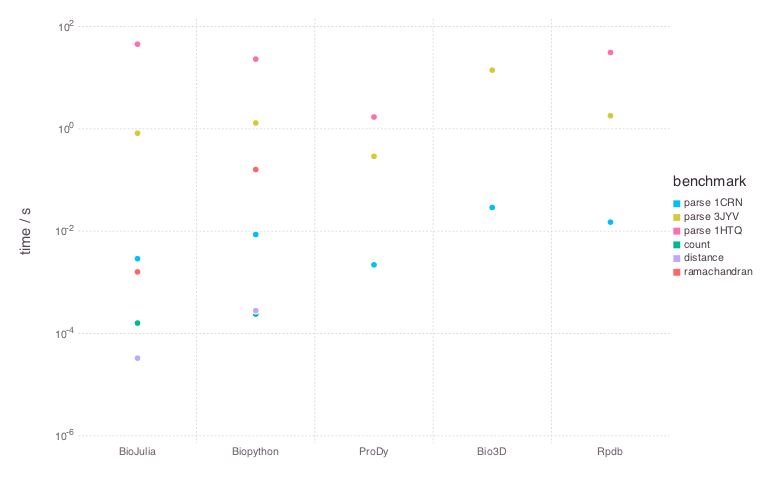
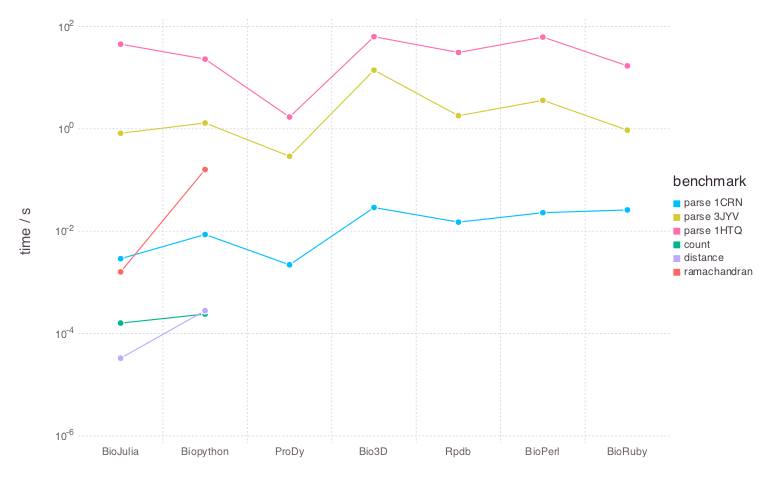
BioRuby, BioPerl parsing; download PDBs; readme links

diff --git a/BioRuby/parse.rb b/BioRuby/parse.rb
@@ -1,0 +1,18 @@
+# Benchmark the parsing of a PDB file given as an argument
+
+require 'bio'
+require 'benchmark'
+
+pdb_filepath = ARGV[0]
+runs = 1
+
+times = 0.0
+
+for i in 1..runs
+    elapsed = Benchmark.realtime {
+        pdb = Bio::PDB.new(File.read(pdb_filepath))
+    }
+    times = times + elapsed
+end
+
+puts "Average time per run: ", times / runs

diff --git a/README.md b/README.md
@@ -4,9 +4,9 @@
 
 Open source software to parse [Protein Data Bank](http://www.rcsb.org/pdb/home/home.do) (PDB) files and manipulate protein structures exist in many languages, often as part of Bio* projects.
 
-This repository aims to collate benchmarks for common tasks across various languages.
+This repository aims to collate benchmarks for common tasks across various languages. The collection of scripts may also be useful to get an idea how each package functions.
 
-Please feel free to contribute scripts from other languages, or improve the scripts already present - I'm looking for the fastest implementation for each software that makes use of the provided API.
+Please feel free to contribute scripts from other languages, or submit improvements the scripts already present - I'm looking for the fastest implementation for each software that makes use of the provided API.
 
 Disclosure: I contributed the `Bio.Structure` module to BioJulia.
 
@@ -14,23 +14,28 @@ Disclosure: I contributed the `Bio.Structure` module to BioJulia.
 ## Tests
 
 * Parsing 3 PDB files, taken from the benchmarking in [1]:
-  - 1CRN, hydrophobic protein (327 atoms)
-  - 3JYV, 80S rRNA (57,327 atoms)
-  - 1HTQ, multicopy glutamine synthetase (97,872 atoms)
-* Counting the number of alanine residues in adenylate kinase (1AKE)
-* Calculating the distance between residues 50 and 60 in adenylate kinase (1AKE)
-* Calculating the Ramachandran phi/psi angles in adenylate kinase (1AKE)
+  * [1CRN](http://www.rcsb.org/pdb/explore/explore.do?structureId=1crn) - hydrophobic protein (327 atoms)
+  * [3JYV](http://www.rcsb.org/pdb/explore/explore.do?structureId=3jyv) - 80S rRNA (57,327 atoms)
+  * [1HTQ](http://www.rcsb.org/pdb/explore/explore.do?structureId=1htq) - multicopy glutamine synthetase (10 models of 97,872 atoms)
+* Counting the number of alanine residues in adenylate kinase ([1AKE](http://www.rcsb.org/pdb/explore/explore.do?structureId=1ake))
+* Calculating the distance between residues 50 and 60 in adenylate kinase ([1AKE](http://www.rcsb.org/pdb/explore/explore.do?structureId=1ake))
+* Calculating the Ramachandran phi/psi angles in adenylate kinase ([1AKE](http://www.rcsb.org/pdb/explore/explore.do?structureId=1ake))
 
-[1] Gajda MJ, hPDB – Haskell library for processing atomic biomolecular structures in protein data bank format, *BMC Research Notes* 2013, **6**:483
+[1] Gajda MJ, hPDB - Haskell library for processing atomic biomolecular structures in protein data bank format, *BMC Research Notes* 2013, **6**:483
+Link ^^
+
+The PDB files can be downloaded to directory `pdbs` by running `source download_pdbs.sh` from this directory.
 
 
 ## Software
 
-* BioJulia development version running on Julia v0.4.6 (times measured after JIT compilation)
-* Biopython v1.66 running on Python v2.7.10
-* ProDy v1.7 running on Python v2.7.10
-* Bio3D v2.2-2 running on R v3.2.2
-* Rpdb v2.2 running on R v3.2.2
+* [BioJulia](https://biojulia.github.io/Bio.jl/) development version running on Julia v0.4.6 (times measured after JIT compilation)
+* [Biopython](http://biopython.org/wiki/Biopython) v1.66 running on Python v2.7.10
+* [ProDy](http://prody.csb.pitt.edu/) v1.7 running on Python v2.7.10
+* [Bio3D](http://thegrantlab.org/bio3d/index.php) v2.2-2 running on R v3.2.2
+* [Rpdb](https://cran.r-project.org/web/packages/Rpdb/index.html) v2.2 running on R v3.2.2
+* [BioPerl](http://bioperl.org/index.html) v1.6.924 running on Perl v5.18.2
+* [BioJava](http://biojava.org/) v... running on Java v1.8.0_91
 
 
 ## Comparison
@@ -43,21 +48,21 @@ Note you can't just compare as some parsing does different things, e.g. headers.
 
 All times in seconds.
 
-|                       | BioJulia    | Biopython   | ProDy       | Bio3D       | Rpdb        |
-| :-------------------- | :---------- | :---------- | :---------- | :---------- | :---------- |
-| Parse 1CRN            |             |             |             |             |             |
-| Parse 3JYV            |             |             |             |             |             |
-| Parse 1HTQ            |             |             |             |             |             |
-| Count                 |             |             |             |             |             |
-| Distance              |             |             |             |             |             |
-| Ramachandran          |             |             |             |             |             |
-| ----                  |             |             |             |             |             |
-| Language              | Julia       | Python      | Python      | R           | R           |
-| Parses header         | ✗           | ✓           | ✓           |             |             |
-| Heirarchichal parsing | ✓           | ✓           |             |             |             |
-| Writes PDBs           | ✓           | ✓           |             |             |             |
-| Superimposition       | ✗           | ✓           | ✓           |             |             |
-| Supports disorder     | ✓           | ✓           |             |             |             |
-| License               | MIT         | Biopython   | MIT         | GPLv2       | GPL         |
+|                       | BioJulia     | Biopython    | ProDy        | Bio3D        | Rpdb         | BioPerl      | BioJava      |
+| :-------------------- | :----------- | :----------- | :----------- | :----------- | :----------- | :----------- | :----------- |
+| Parse 1CRN            |              |              |              |              |              |              |              |
+| Parse 3JYV            |              |              |              |              |              |              |              |
+| Parse 1HTQ            |              |              |              |              |              |              |              |
+| Count                 |              |              |              |              |              |              |              |
+| Distance              |              |              |              |              |              |              |              |
+| Ramachandran          |              |              |              |              |              |              |              |
+| ----                  |              |              |              |              |              |              |              |
+| Language              | Julia        | Python       | Python       | R            | R            | Perl         | Java         |
+| Parses header         | ✗            | ✓            | ✓            |              |              |              |              |
+| Heirarchichal parsing | ✓            | ✓            |              |              |              |              |              |
+| Writes PDBs           | ✓            | ✓            |              |              |              | ✓            |              |
+| Superimposition       | ✗            | ✓            | ✓            |              |              |              |              |
+| Supports disorder     | ✓            | ✓            |              |              |              |              |              |
+| License               | MIT          | Biopython    | MIT          | GPLv2        | GPL          | GPL/Artistic | LGPL         |
 
 ![benchmarks](plot/plot.png "benchmarks")
